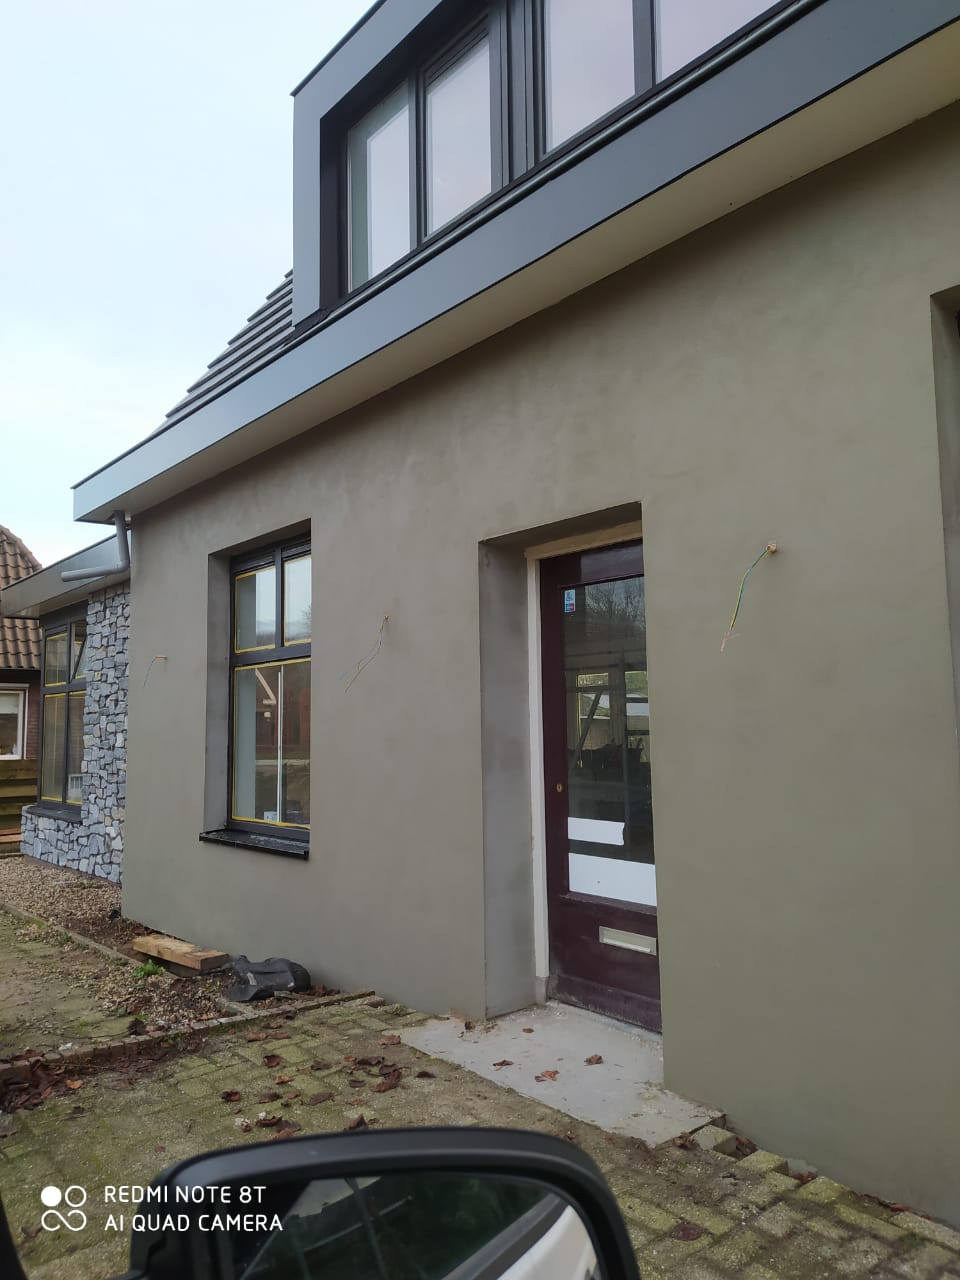
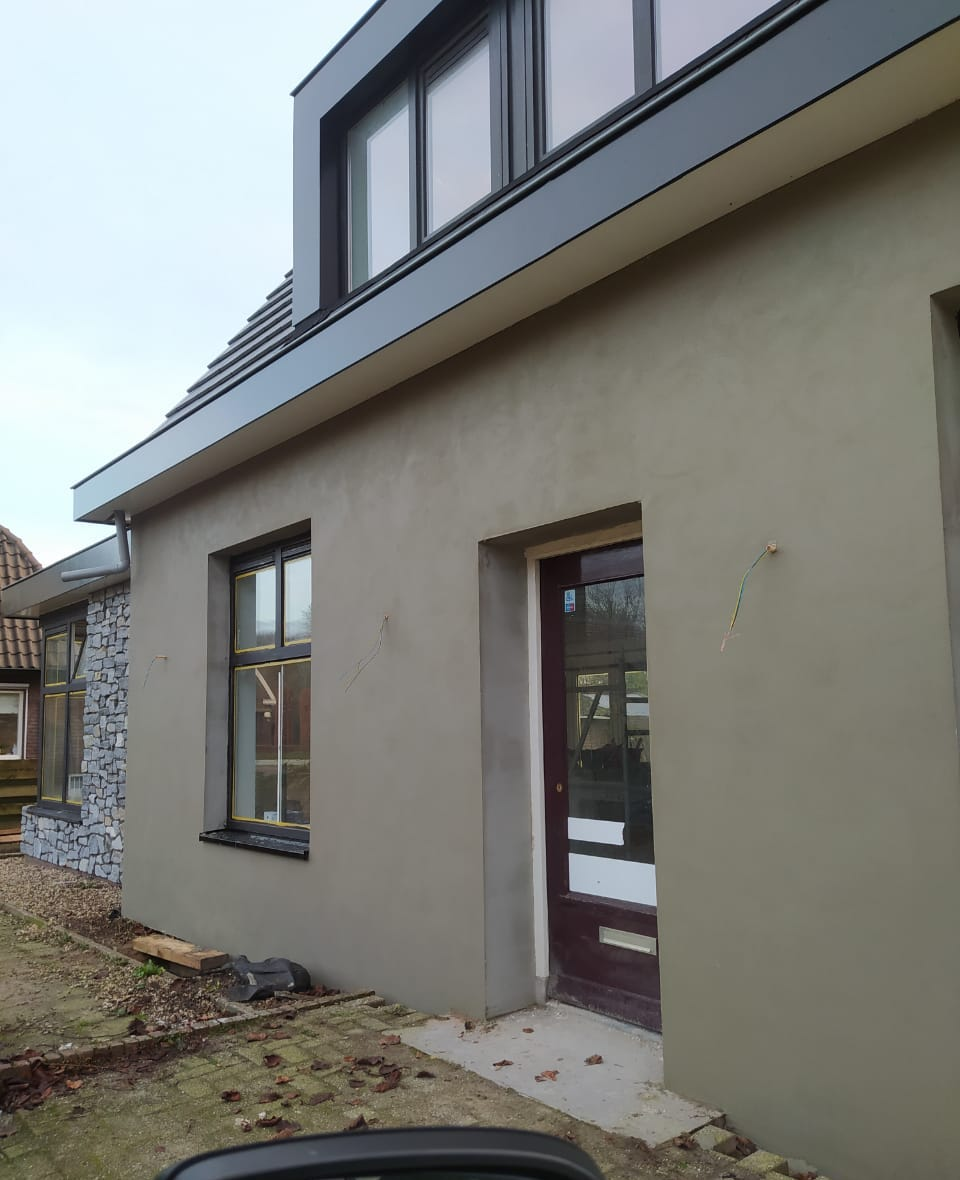
foto's van de overig diensten bijgewerkt

diff --git a/diensten.php b/diensten.php
@@ -311,7 +311,7 @@ require_once __DIR__ . '/includes/header.php';
                 </div>
                 <?php endforeach; else: ?>
                 <div class="slider-slide h-full">
-                  <img src="/images/uploads/IMG-20230330-WA0002.jpg" alt="Stucwerk en afwerking door RWW Bouw" class="w-full h-full object-cover" loading="lazy">
+                  <img src="/images/uploads/stucwerk/PHOTO-2026-04-09-09-05-23 3.jpg" alt="Stucwerk en afwerking door RWW Bouw" class="w-full h-full object-cover" loading="lazy">
                 </div>
                 <?php endif; ?>
               </div>
